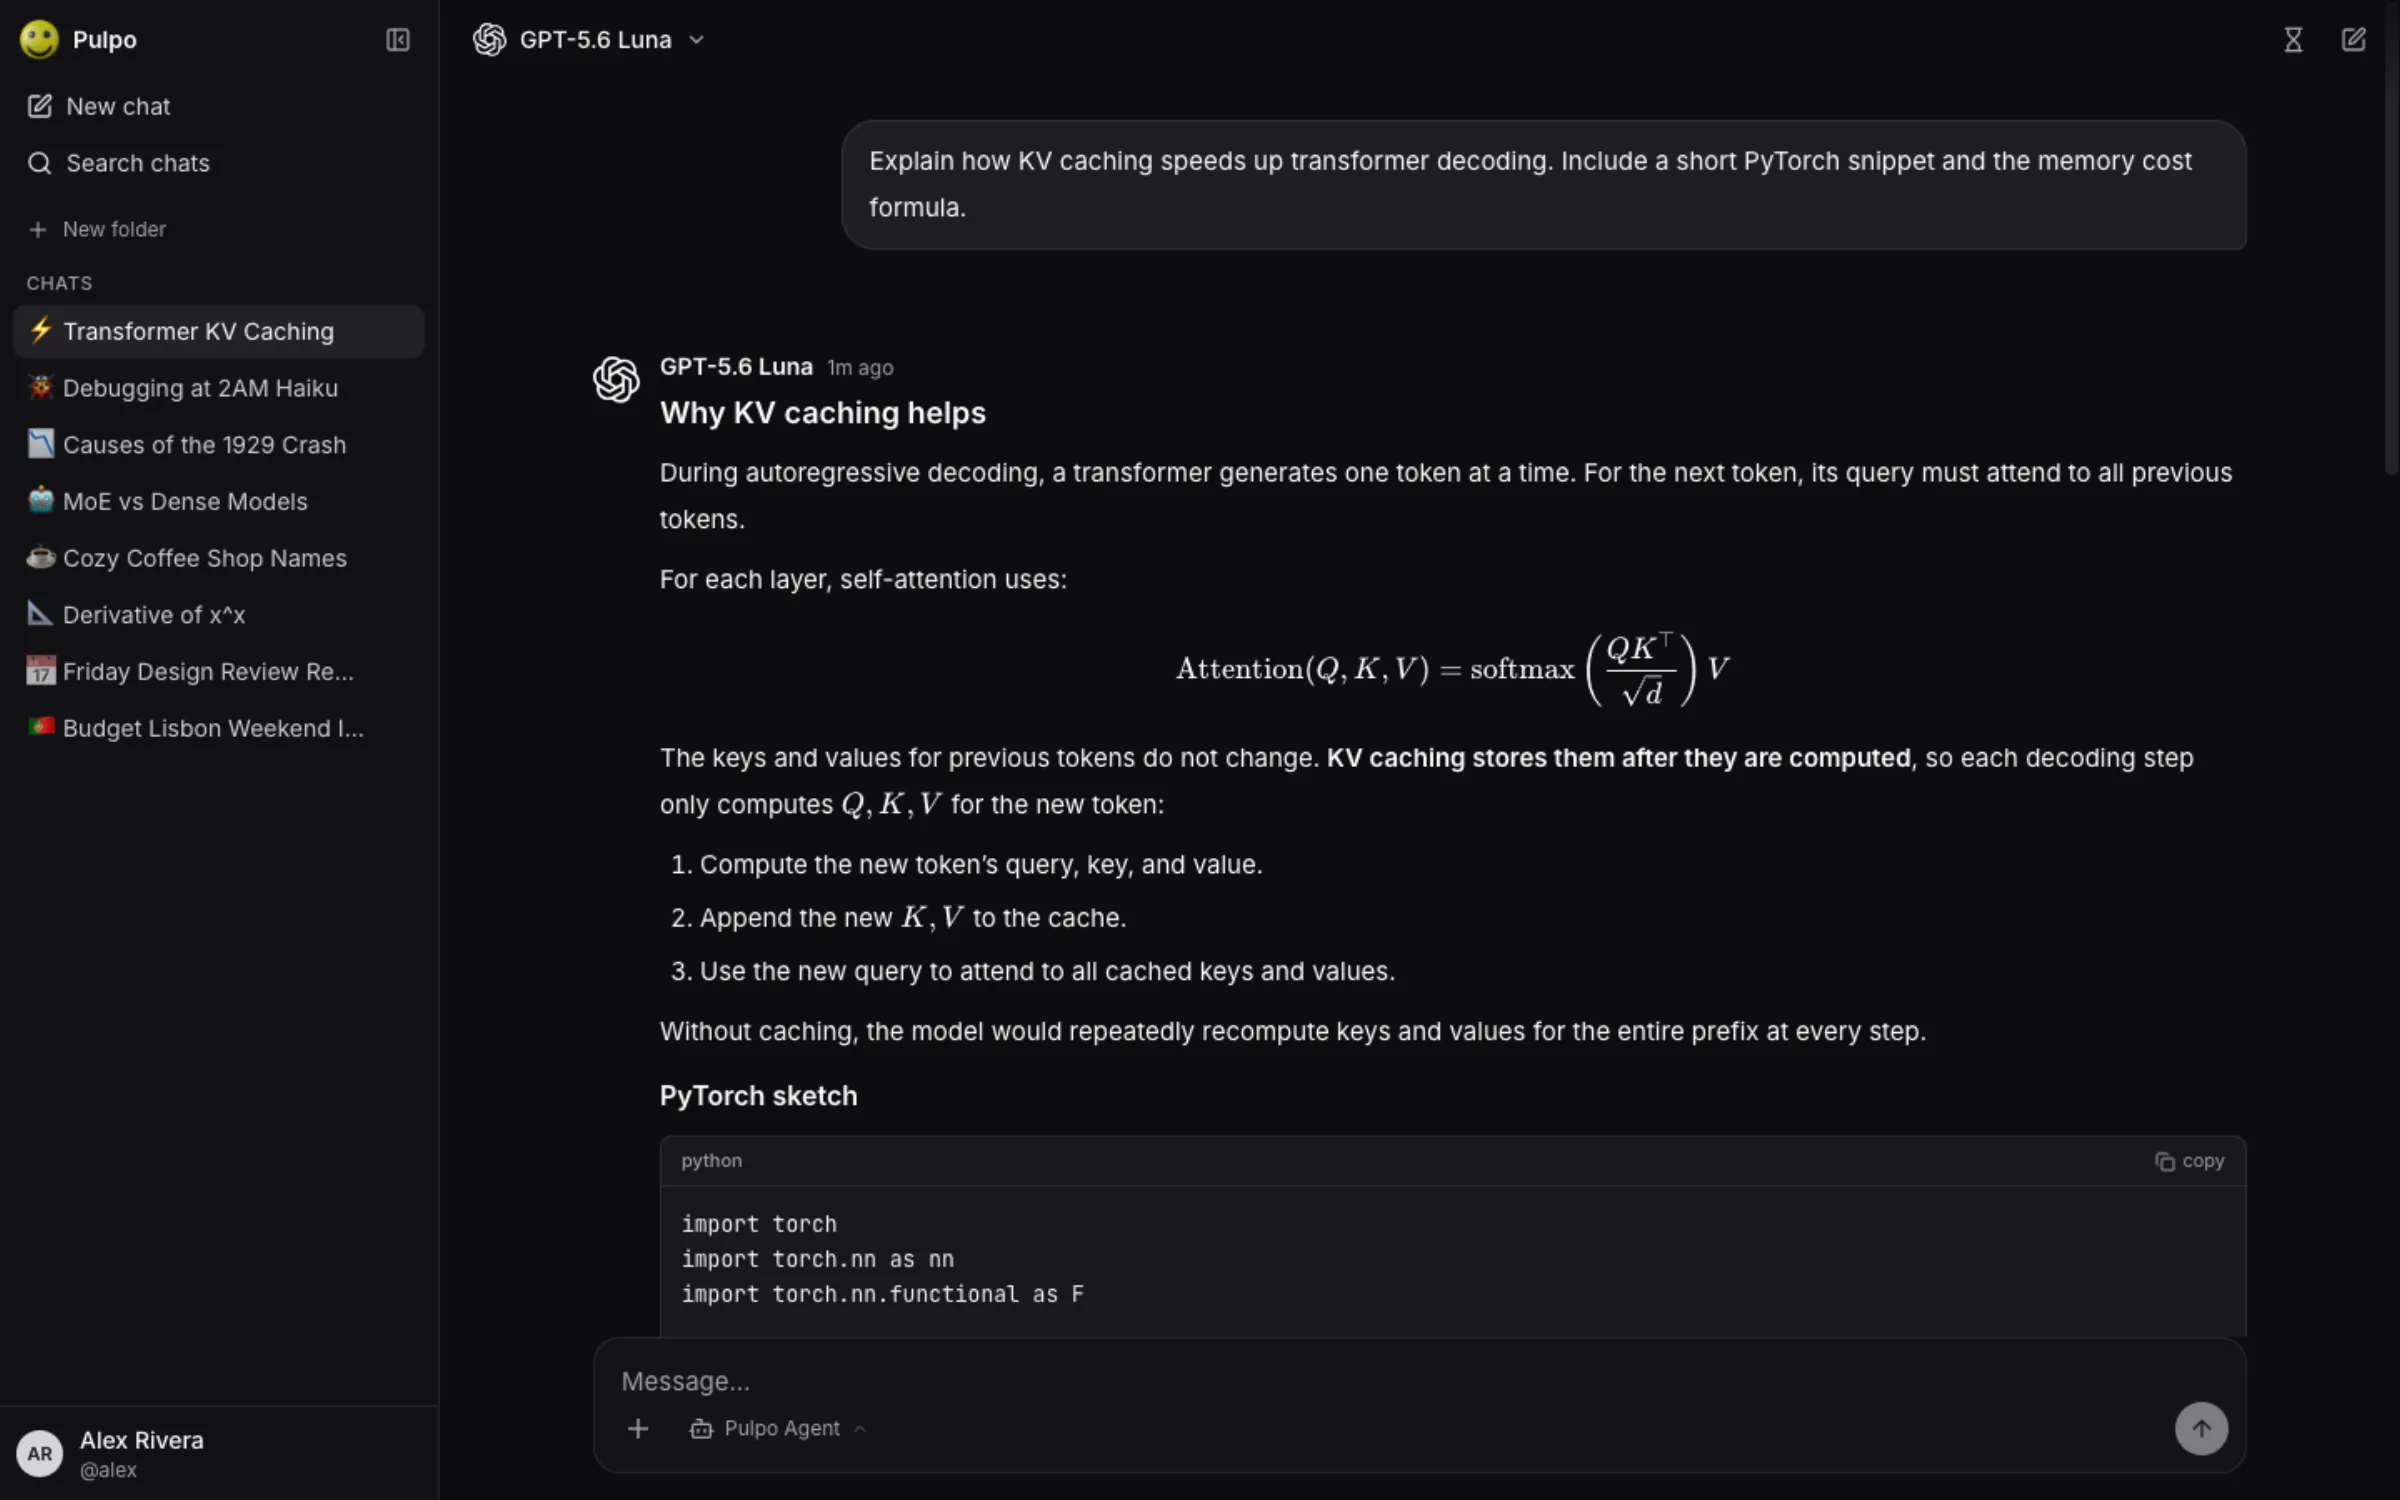
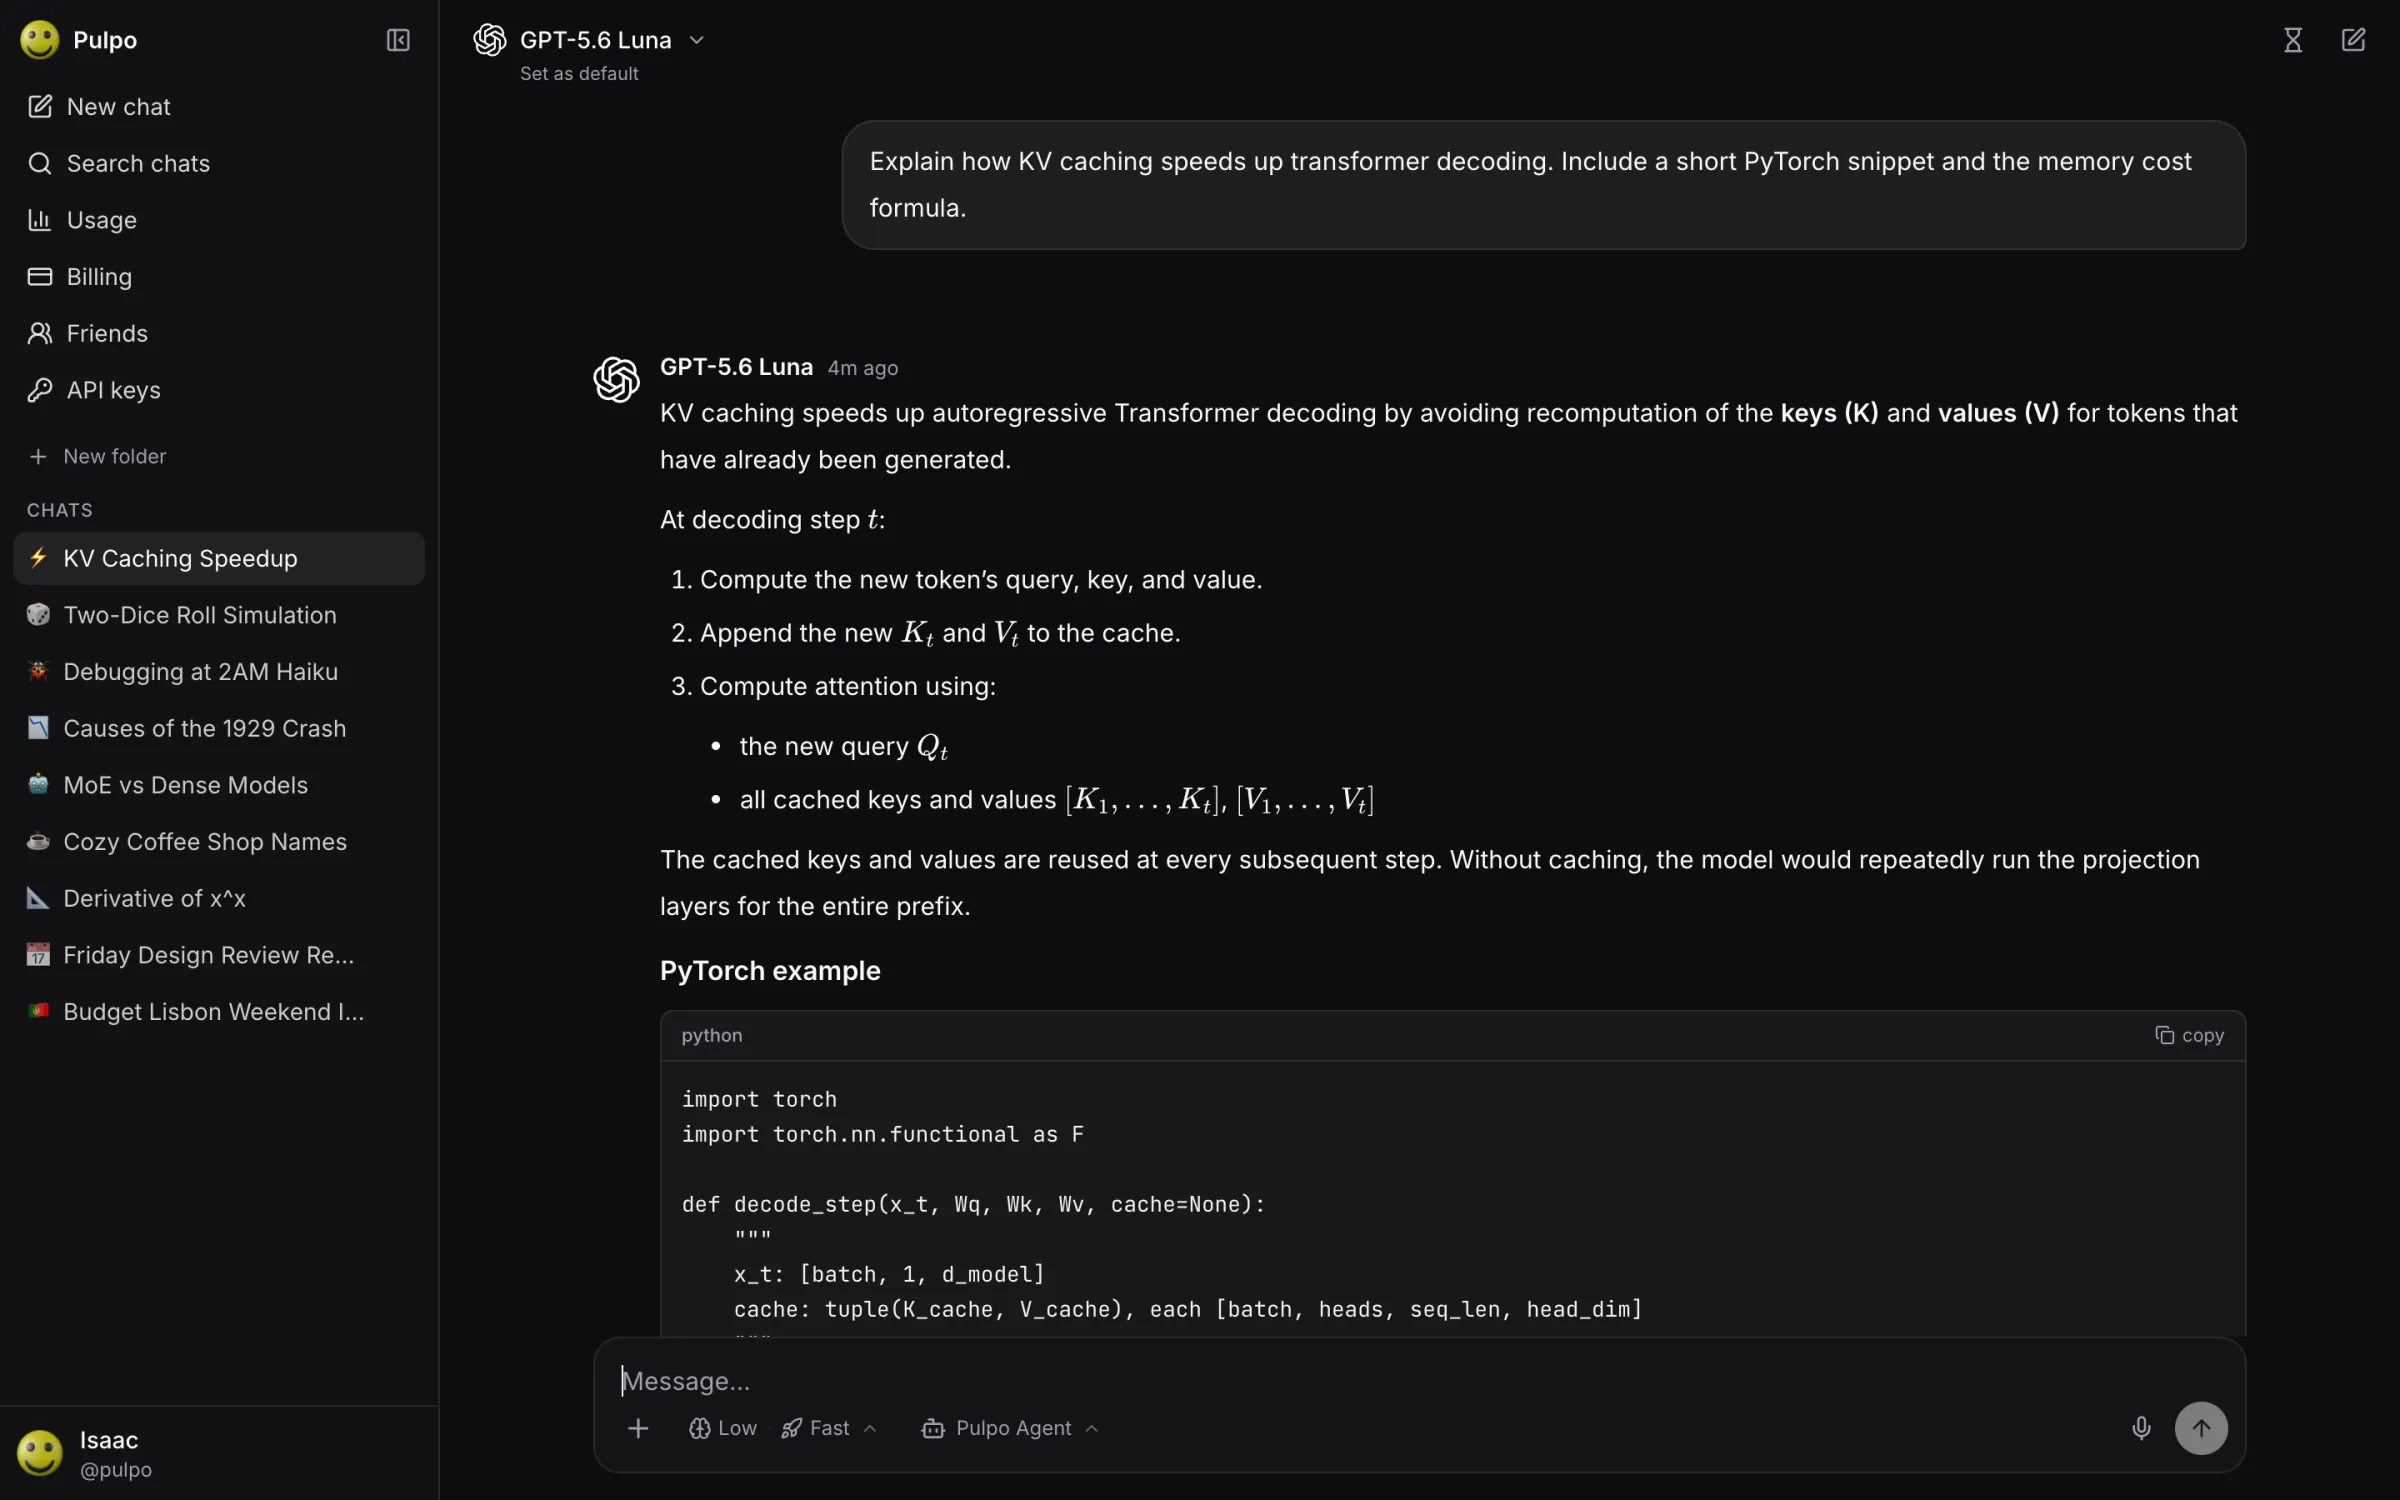
feat(web): capture landing screenshot from production demo account

diff --git a/docs/landing-screenshots.md b/docs/landing-screenshots.md
@@ -12,15 +12,16 @@ The web landing page shown to signed-out visitors at `/` uses a screenshot of th
 
 Production has the full model catalog, so the screenshot matches what visitors get.
 
-1. Sign up a dedicated demo account on [pulpo.baby](https://pulpo.baby) and give it a presentable name, username, and enough balance for eight short prompts. Keep the account empty so the script fills the sidebar with demo chats. Never capture a personal account: its chat titles appear in the sidebar.
-2. Run the script against production:
+1. Use the shared demo account on [pulpo.baby](https://pulpo.baby). It needs a presentable name and username and enough balance for eight short prompts. Never capture a personal account: its chat titles appear in the sidebar.
+2. To refresh the demo chats, sign in to the demo account and move its chats to the trash first. The script only creates sidebar chats when the account has none.
+3. Run the script. It targets production by default:
 
    ```sh
-   PULPO_URL=https://pulpo.baby npm run capture:landing -w @pulpo/web
+   npm run capture:landing -w @pulpo/web
    ```
 
-3. Sign in with the demo account in the Chromium window that opens. The script waits up to 10 minutes, then continues on its own.
-4. Review the new images, then commit them.
+4. Sign in with the demo account in the Chromium window that opens. The script waits up to 10 minutes, then continues on its own.
+5. Review the new images, then commit them.
 
 The demo chats are real requests: they're billed to the demo account and appear in its usage like any other chats.
 
@@ -30,10 +31,10 @@ This needs no production account, but the local preview only has the preview pro
 
 1. Configure the local preview (`npm run local:preview:init`, then fill in `~/.config/pulpo/local-preview.env`).
 2. For a clean sidebar, start from an empty stack with `npm run local:preview:reset`. Otherwise, run `npm run local:preview:refresh`. Either way the stack serves `http://localhost:8080`.
-3. Run the script with a demo profile, since the preview admin is named "Preview Admin":
+3. Run the script against the local stack with a demo profile, since the preview admin is named "Preview Admin":
 
    ```sh
-   npm run capture:landing -w @pulpo/web -- --demo-profile
+   PULPO_URL=http://localhost:8080 npm run capture:landing -w @pulpo/web -- --demo-profile
    ```
 
 4. Sign in as the preview admin (`PULPO_PREVIEW_ADMIN_EMAIL` and `PULPO_PREVIEW_ADMIN_PASSWORD` in the local preview config) in the Chromium window.
@@ -49,6 +50,6 @@ This needs no production account, but the local preview only has the preview pro
 
 ## Options
 
-- `PULPO_URL` sets the instance (default `http://localhost:8080`).
+- `PULPO_URL` sets the instance (default `https://pulpo.baby`).
 - `--demo-profile` renames the signed-in account to the demo identity before capturing.
 - `--hero <chatId>` recaptures an existing chat without sending new prompts. Its timestamp shows the chat's real age.
